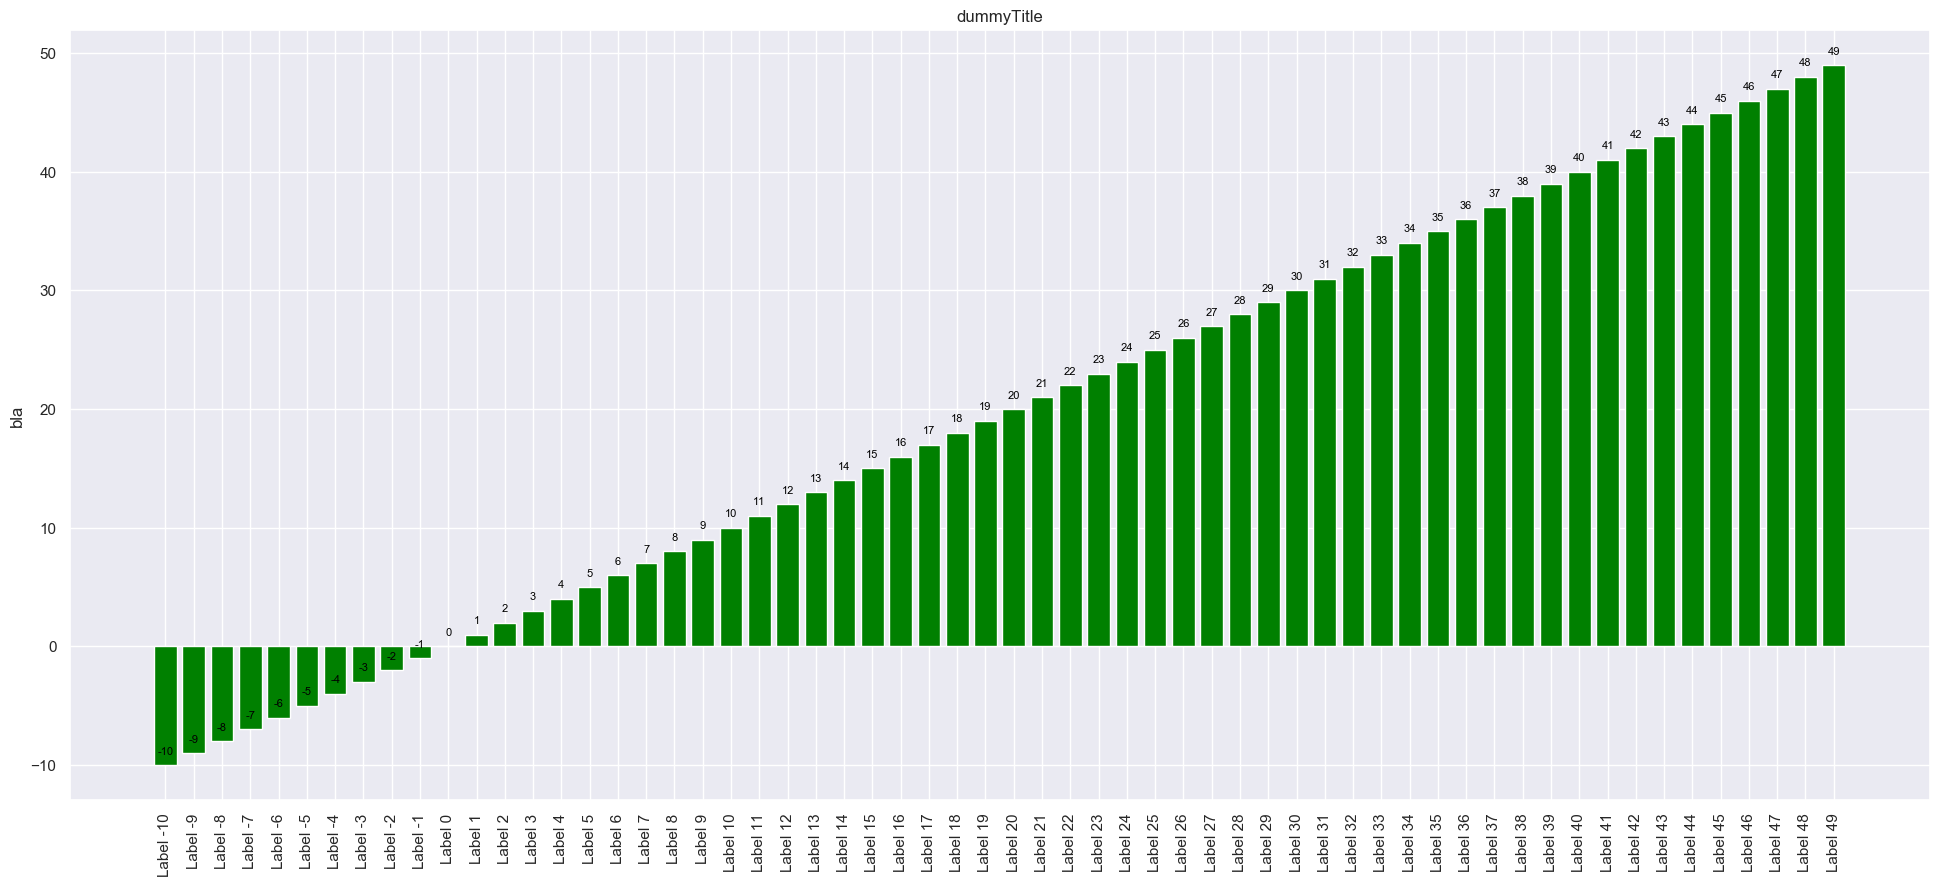
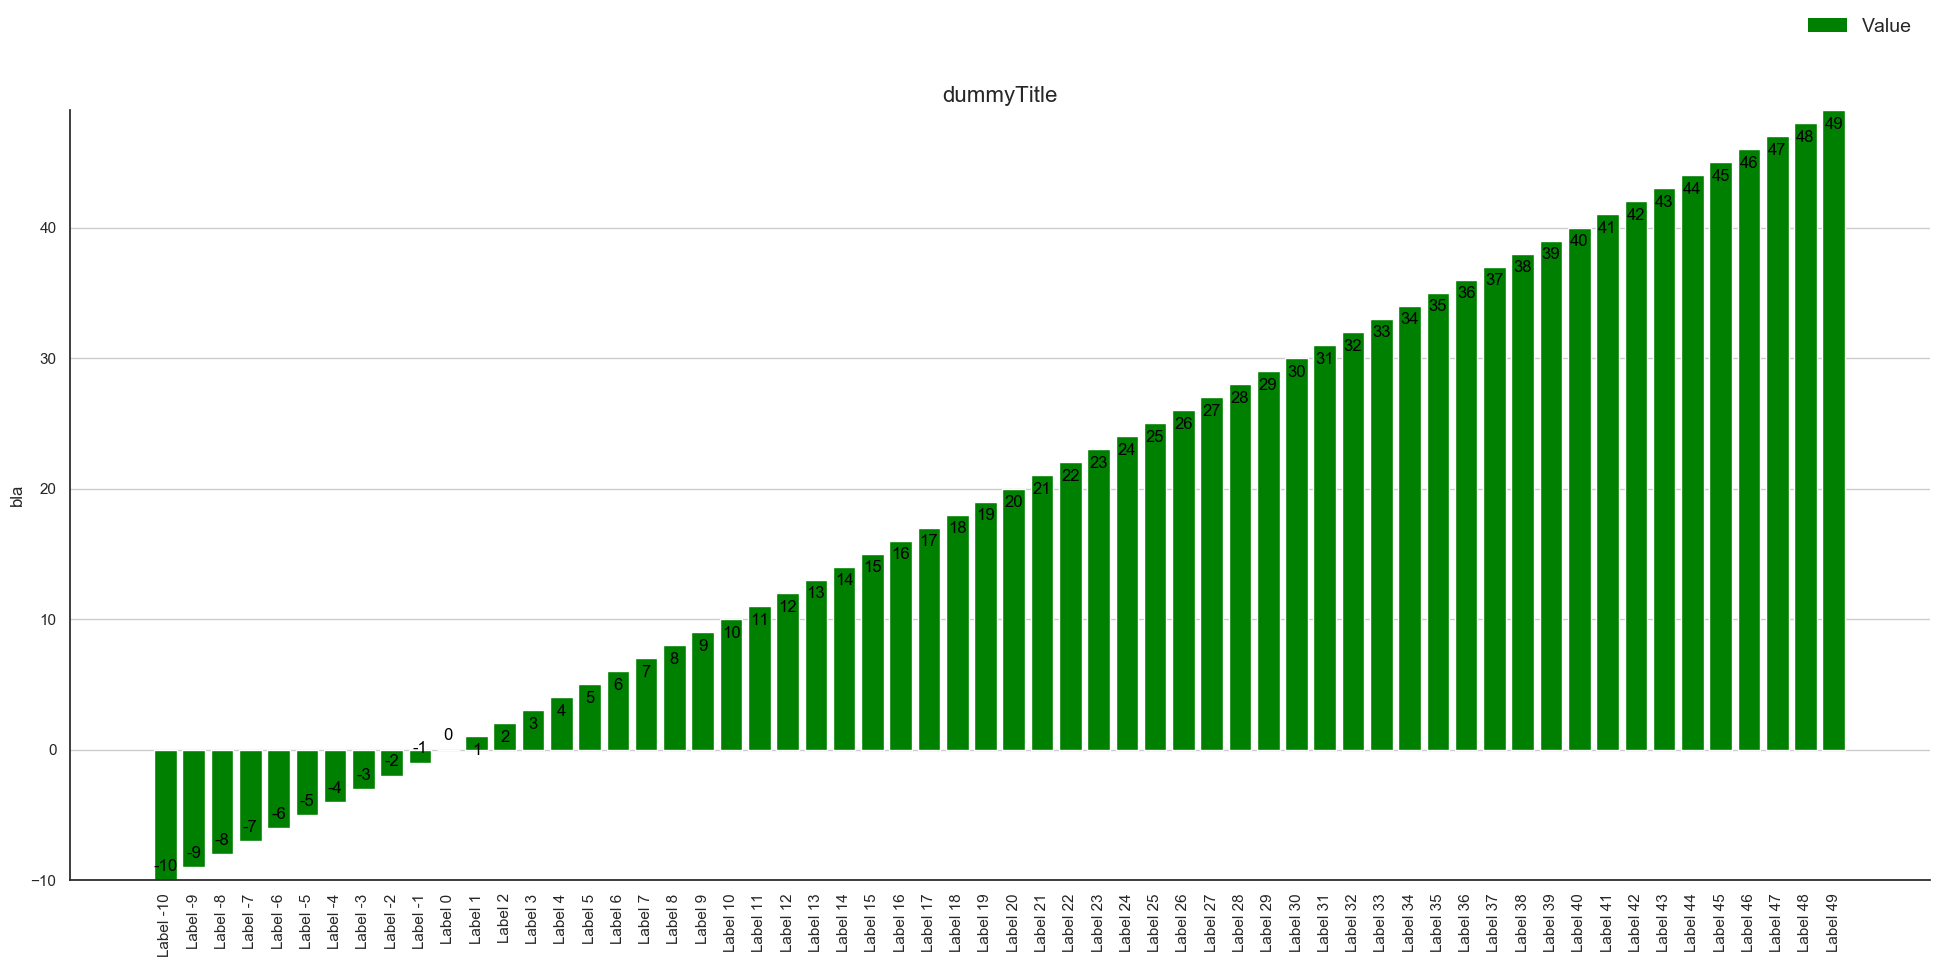
- barchart tests

diff --git a/sat/report/plot.py b/sat/report/plot.py
@@ -9,13 +9,15 @@ import numpy as np
 import seaborn as sns
 import squarify
 
-sns.set()
-
 _DPI = 72.27
 _LOGGER = logging.getLogger(__name__)
 _MAX_HEATMAP_ENTRIES = 200
 _MAX_TREEMAP_ENTRIES = 20
 _MAX_BARCHART_ENTRIES = 60
+
+sns.set()
+
+# pylint: disable = R0914
 
 
 def plot_heatmap(dataframe, title, folder, file_name):
@@ -59,7 +61,7 @@ def plot_heatmap(dataframe, title, folder, file_name):
         linecolor="grey",
         vmin=1,
     )
-    _write_figure(fig, folder, file_name)
+    _write_figure_and_reset(fig, folder, file_name)
 
 
 def plot_treemap(data_frame, title, folder, file_name, value_label):
@@ -92,7 +94,7 @@ def plot_treemap(data_frame, title, folder, file_name, value_label):
     color_map = plt.get_cmap("autumn_r", len(labels))
     colors = [color_map(i) for i in range(len(norm_values))][::-1]
     # plot
-    plt.rc("font", size=8)
+    # plt.rc("font", size=8)
     fig = plt.figure(figsize=(12, 10))
     axis = fig.add_subplot(111)
     axis = squarify.plot(
@@ -108,44 +110,80 @@ def plot_treemap(data_frame, title, folder, file_name, value_label):
     img.set_visible(False)
     # shrink colorbar
     fig.colorbar(img, orientation="vertical", shrink=0.96)
-    _write_figure(fig, folder, file_name)
+    _write_figure_and_reset(fig, folder, file_name)
 
 
 def plot_stacked_barchart(data_frame, ylabel, title, folder, file_name):
     if data_frame.empty:
         _LOGGER.info("No data available. Skip writing stacked barchart: %s", file_name)
         return
-    data_column_1 = data_frame.columns[1]
-    data_column_2 = data_frame.columns[2]
-    column_data_1 = data_frame[data_column_1].values
-    column_data_2 = data_frame[data_column_2].values
-    total = column_data_1 + column_data_2
+    number_of_entries = data_frame.shape[0]
+    if number_of_entries > _MAX_BARCHART_ENTRIES:
+        _LOGGER.info(
+            "Number of entries (%d) exceeds limit for treemaps. Limiting entries to %d for barchart: %s",
+            len(data_frame),
+            _MAX_TREEMAP_ENTRIES,
+            file_name,
+        )
+        number_of_entries = _MAX_BARCHART_ENTRIES
+    label_column = data_frame.columns[0]
+    data_column_top = data_frame.columns[2]
+    data_column_bottom = data_frame.columns[1]
+    label_data = data_frame[label_column].values[:number_of_entries]
+    data_top = data_frame[data_column_top].values[:number_of_entries]
+    data_bottom = data_frame[data_column_bottom].values[:number_of_entries]
+    data_total = data_bottom + data_top
     # Set general plot properties
     sns.set_style("white")
-    sns.set_context({"figure.figsize": (24, 10)})
-    labels = _trim_labels(data_frame[data_frame.columns[0]].values, 40)
+    labels = _trim_labels(label_data, 40)
+    # Fig and axis
+    fig, axis = plt.subplots(1, 1, figsize=(24, 10))
+    axis.spines["top"].set_visible(False)
+    axis.spines["right"].set_visible(False)
     # Plot 1 - background - "total" (top) series
-    sns.barplot(x=labels, y=total, color="red")
+    top_plot = sns.barplot(x=labels, y=data_total, color="red")
+    for index, total in enumerate(data_total):
+        top_plot.annotate(
+            s=str(data_top[index]),
+            xy=(index, total),
+            ha="center",
+            va="center",
+            xytext=(0, -10 if total > 0 else 10),
+            textcoords="offset points",
+            color="black",
+        )
+    # grid
+    top_plot.yaxis.grid()
+    top_plot.set_ylim(min(data_total), max(data_total))
     # Plot 2 - overlay - "bottom" series
-    bottom_plot = sns.barplot(x=labels, y=column_data_1, color="green")
+    bottom_plot = sns.barplot(x=labels, y=data_bottom, color="green")
+    for index, y_value in enumerate(data_bottom):
+        bottom_plot.annotate(
+            s=str(y_value),
+            xy=(index, y_value),
+            ha="center",
+            va="center",
+            xytext=(0, -10 if y_value > 0 else 10),
+            textcoords="offset points",
+            color="black",
+        )
     # Legend
     top_bar = plt.Rectangle((0, 0), 1, 1, fc="red", edgecolor="none")
     bottom_bar = plt.Rectangle((0, 0), 1, 1, fc="green", edgecolor="none")
     legend = plt.legend(
         [bottom_bar, top_bar],
-        [data_column_1, data_column_2],
-        loc=1,
+        [data_column_bottom, data_column_top],
         ncol=2,
-        prop={"size": 16},
+        prop={"size": 14},
+        bbox_to_anchor=(0.9, 0.99),
+        bbox_transform=plt.gcf().transFigure,
     )
     legend.draw_frame(False)
     bottom_plot.set_ylabel(ylabel)
-    bottom_plot.set_title(title)
-    # remove spines
-    sns.despine(left=True)
+    bottom_plot.set_title(title, fontsize=16)
     # rotate labels
     bottom_plot.set_xticklabels(bottom_plot.get_xticklabels(), rotation=80)
-    _write_figure(bottom_plot.get_figure(), folder, file_name)
+    _write_figure_and_reset(fig, folder, file_name)
 
 
 def plot_barchart(data_frame, ylabel, title, folder, file_name):
@@ -155,15 +193,22 @@ def plot_barchart(data_frame, ylabel, title, folder, file_name):
     number_of_entries = data_frame.shape[0]
     if number_of_entries > _MAX_BARCHART_ENTRIES:
         _LOGGER.info(
-            "Number of entries (%d) exceeds limit for treemaps. Limiting entries to %d for treemap: %s",
+            "Number of entries (%d) exceeds limit for treemaps. Limiting entries to %d for barchart: %s",
             len(data_frame),
             _MAX_TREEMAP_ENTRIES,
             file_name,
         )
         number_of_entries = _MAX_BARCHART_ENTRIES
+    sns.set_style("white")
     # Plot
+    column_name = data_frame.columns[1]
     y_values = (data_frame[data_frame.columns[1]].values)[:number_of_entries]
     fig, axis = plt.subplots(1, 1, figsize=(24, 10))
+    # y axis and grid
+    axis.spines["top"].set_visible(False)
+    axis.spines["right"].set_visible(False)
+    axis.yaxis.grid()
+    axis.set_ylim(min(y_values), max(y_values))
     # Labels
     labels = _trim_labels(
         (data_frame[data_frame.columns[0]].values)[:number_of_entries], 60
@@ -172,19 +217,30 @@ def plot_barchart(data_frame, ylabel, title, folder, file_name):
     axis.bar(labels_pos, y_values, color="green")
     plt.xticks(labels_pos, labels)
     axis.set_ylabel(ylabel)
-    axis.set_title(title)
+    axis.set_title(title, fontsize=16)
     for index, y_value in enumerate(y_values):
         axis.annotate(
             s=str(y_value),
             xy=(index, y_value),
             ha="center",
             va="center",
-            xytext=(0, 10),
+            xytext=(0, -10 if y_value > 0 else 10),
             textcoords="offset points",
             color="black",
         )
+    legend_bar = plt.Rectangle((0, 0), 1, 1, fc="green", edgecolor="none")
+    legend = plt.legend(
+        [legend_bar],
+        [column_name],
+        ncol=2,
+        prop={"size": 14},
+        bbox_to_anchor=(0.9, 0.99),
+        bbox_transform=plt.gcf().transFigure,
+    )
+    legend.draw_frame(False)
+
     plt.xticks(rotation=90)
-    _write_figure(fig, folder, file_name)
+    _write_figure_and_reset(fig, folder, file_name)
 
 
 def _trim_labels(orig_labels, max_length):
@@ -218,33 +274,17 @@ def _wrap_label(label, length):
     return "\n".join(labellines)
 
 
-def _write_figure(figure, folder, filename):
+def _write_figure_and_reset(figure, folder, filename):
     path = os.path.join(folder, filename)
     os.makedirs(os.path.dirname(path), exist_ok=True)
     figure.savefig(path, bbox_inches="tight")
     plt.close(figure)
+    _reset()
 
 
-# def plot_scatterplot(data, folder, file_name):
-#     sns.set_context({"figure.figsize": (24, 10)})
-#     cmap = sns.cubehelix_palette(dark=0.3, light=0.8, as_cmap=True)
-#     axes = sns.scatterplot(
-#         x="INSTRUCTION_MISSED",
-#         y="INSTRUCTION_COVERED",
-#         hue="COMPLEXITY_MISSED",
-#         size="COMPLEXITY_MISSED",
-#         palette=cmap,
-#         data=data,
-#     )
-#     for line in range(0, data.shape[0]):
-#         axes.text(
-#             data.INSTRUCTION_MISSED[line] + 0.2,
-#             data.INSTRUCTION_COVERED[line] + 0.05,
-#             data.CLASS[line],
-#             horizontalalignment="left",
-#             size="medium",
-#             color="black",
-#             weight="semibold",
-#         )
-#     # plt.show()
-#     _write_figure(axes.get_figure(), folder, file_name)
+def _reset():
+    sns.reset_orig()
+    sns.set_style(None)
+    sns.set()
+    plt.clf()
+    plt.cla()

diff --git a/test_integration/report/test_int_plot_stackedbarchart.py b/test_integration/report/test_int_plot_stackedbarchart.py
@@ -9,40 +9,39 @@ import sat.report.plot as sut
 import test_integration.report.report_test_utils as reporttest
 
 
-class PlotBarchartTest(unittest.TestCase):
+class PlotStackedBarchartTest(unittest.TestCase):
     def setUp(self):
-        self._ref_barchart_path = os.path.join(
-            reporttest.REF_DATA_FOLDER, "ref_barchart.png"
+        self._ref_stacked_barchart_path = os.path.join(
+            reporttest.REF_DATA_FOLDER, "ref_stacked_barchart.png"
         )
-        self._ref_barchart_small_path = os.path.join(
-            reporttest.REF_DATA_FOLDER, "ref_barchart_small.png"
-        )
-        self._used_file_name = "test_barchart.png"
-        self._barchart_output_path = os.path.join(
+        self._used_file_name = "test_stacked_barchart.png"
+        self._stacked_barchart_output_path = os.path.join(
             reporttest.TEST_RESULTS_FOLDER, self._used_file_name
         )
 
     @pytest.mark.integration
-    def test_plot_barchart_plots_expected_barchart_if_dataframe_extends_max_limit(self):
+    def test_plot_stacked_barchart_plots_expected_barchart_if_dataframe_extends_max_limit(
+        self
+    ):
         """Make shure barcharts are limit to _MAX_BARCHART_ENTRIES"""
         dummy_dataframe = pd.DataFrame(
             data=[
-                ["Label %d" % dummyval, dummyval] for dummyval in list(range(-10, 100))
+                ["Label %d" % dummyval, dummyval, dummyval * 0.5]
+                for dummyval in list(range(-10, 100))
             ],
-            columns=["Label", "Value"],
+            columns=["Labels", "Lines Added", "Lines Removed"],
         )
-        sut.plot_barchart(
+        sut.plot_stacked_barchart(
             dummy_dataframe,
-            "bla",
+            "total",
             "dummyTitle",
             reporttest.TEST_RESULTS_FOLDER,
             self._used_file_name,
         )
 
         reporttest.assert_images_equal(
-            self._barchart_output_path, self._ref_barchart_path
+            self._stacked_barchart_output_path, self._ref_stacked_barchart_path
         )
 
     def tearDown(self):
         shutil.rmtree(reporttest.TEST_RESULTS_FOLDER, ignore_errors=True)
-        # pass

diff --git a/test/report/test_plot_treemap.py b/test/report/test_plot_treemap.py
@@ -38,13 +38,13 @@ class PlotTreemapTest(unittest.TestCase):
     # dropped = data.drop(columns=columns_to_drop)
     # sut.plot_scatterplot(dropped, os.path.dirname(path_to_testdata), "test")
 
-    @mock.patch("sat.report.plot._write_figure")
+    @mock.patch("sat.report.plot._write_figure_and_reset")
     def test_plot_treemap_does_not_plot_if_dataframe_empty(self, mock_writer):
         sut.plot_treemap(pd.DataFrame(), "", "", "", "")
 
         self.assertFalse(mock_writer.called)
 
-    @mock.patch("sat.report.plot._write_figure")
+    @mock.patch("sat.report.plot._write_figure_and_reset")
     def test_plot_treemap_does_not_plot_if_dataframe_contains_zero(self, mock_writer):
         dummy_data = [
             ["Entry name %s" % dummy_val, dummy_val] for dummy_val in list(range(0, 22))
@@ -55,7 +55,7 @@ class PlotTreemapTest(unittest.TestCase):
 
         self.assertFalse(mock_writer.called)
 
-    @mock.patch("sat.report.plot._write_figure")
+    @mock.patch("sat.report.plot._write_figure_and_reset")
     def test_plot_treemap_logs_exp_message_for_empty_dataframe(self, mock_writer):
         used_file_name = "dummyFileName"
         exp_logger_name = sut.__name__
@@ -75,7 +75,7 @@ class PlotTreemapTest(unittest.TestCase):
 
         self.assertFalse(mock_writer.called)
 
-    @mock.patch("sat.report.plot._write_figure")
+    @mock.patch("sat.report.plot._write_figure_and_reset")
     def test_plot_treemap_logs_exp_message_if_dataframe_contains_zero(
         self, mock_writer
     ):
@@ -101,7 +101,7 @@ class PlotTreemapTest(unittest.TestCase):
 
         self.assertFalse(mock_writer.called)
 
-    @mock.patch("sat.report.plot._write_figure")
+    @mock.patch("sat.report.plot._write_figure_and_reset")
     def test_plot_treemap_logs_exp_message_if_data_extends_max_limit(self, mock_writer):
         used_file_name = "test_treemap.png"
         exp_logger_name = sut.__name__

diff --git a/test/report/test_plot_heatmap.py b/test/report/test_plot_heatmap.py
@@ -7,13 +7,13 @@ import sat.report.plot as sut
 
 
 class PlotHeatmapTest(unittest.TestCase):
-    @mock.patch("sat.report.plot._write_figure")
+    @mock.patch("sat.report.plot._write_figure_and_reset")
     def test_plot_heatmap_does_not_plot_if_dataframe_empty(self, mock_writer):
         sut.plot_heatmap(pd.DataFrame(), "", "", "")
 
         self.assertFalse(mock_writer.called)
 
-    @mock.patch("sat.report.plot._write_figure")
+    @mock.patch("sat.report.plot._write_figure_and_reset")
     def test_plot_heatmap_does_not_plot_if_dataframe_extends_max_limit(
         self, mock_writer
     ):

diff --git a/test/report/test_plot_barchart.py b/test/report/test_plot_barchart.py
@@ -7,7 +7,7 @@ import sat.report.plot as sut
 
 
 class PlotBarchartTest(unittest.TestCase):
-    @mock.patch("sat.report.plot._write_figure")
+    @mock.patch("sat.report.plot._write_figure_and_reset")
     def test_plot_barchart_does_not_plot_if_dataframe_empty(self, mock_writer):
         sut.plot_barchart(pd.DataFrame(), "", "", "", "")
 
